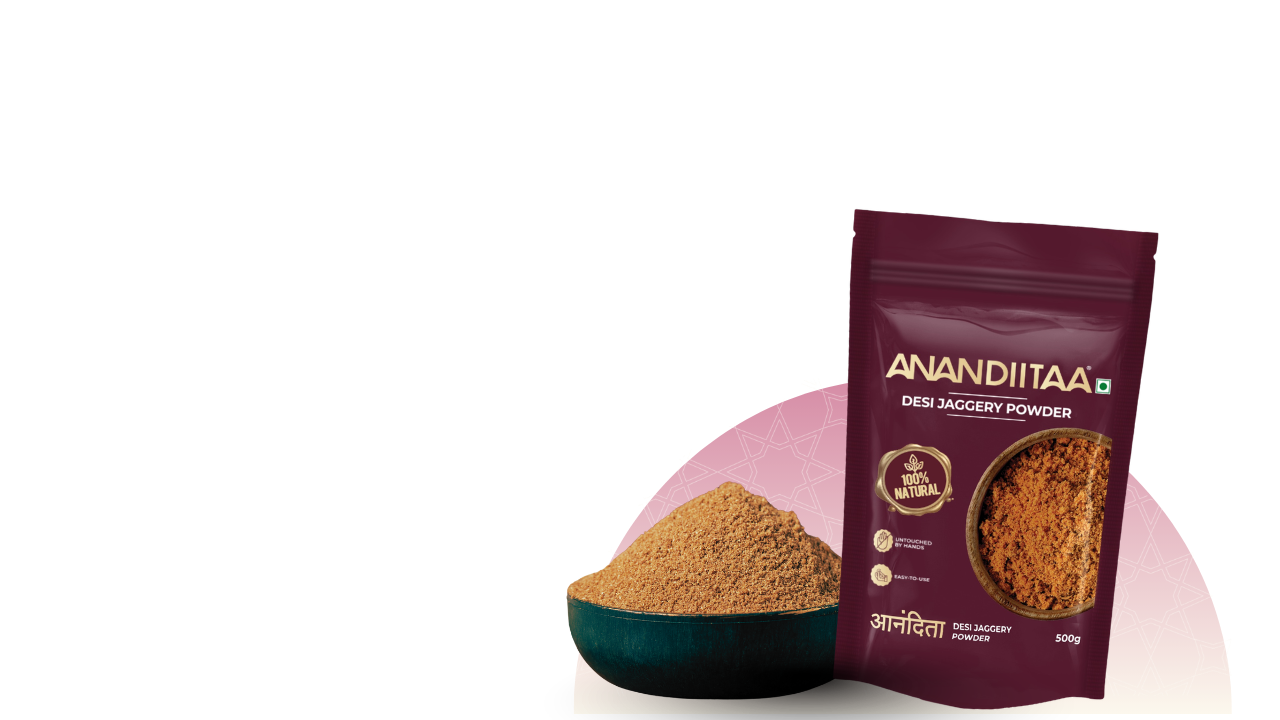
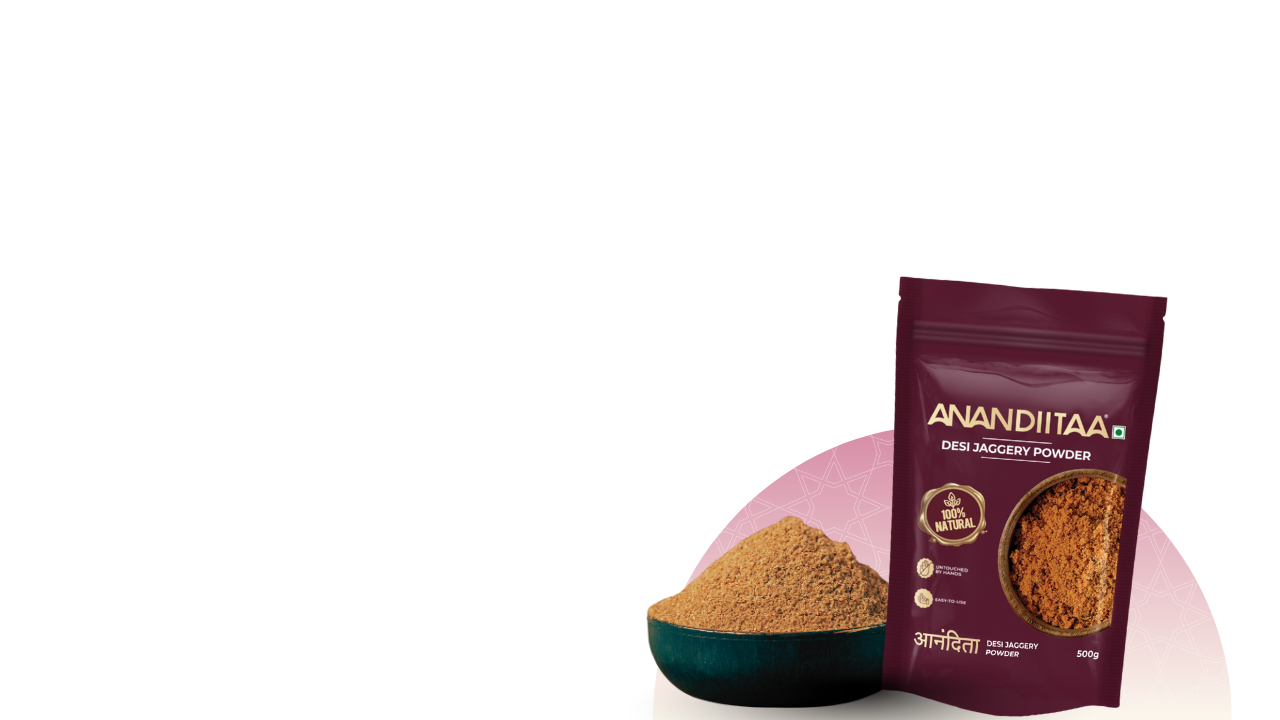
1280x720 carousel

Changed region(s): [[0.4375, 0.275, 0.9375, 1.0], [0.9375, 0.7944, 0.9688, 0.8556]]

diff --git a/my-custom-theme/style.css b/my-custom-theme/style.css
@@ -3485,25 +3485,9 @@ picture {
         margin-top: 4px;
     }
 
-    /* #3 Carousel hero — fit the full packet image WITHOUT stretch or packet-crop.
-       contain = no distortion + nothing important cut; scaling up ~20% from the
-       bottom grows the packets to fill the empty band (the image's top is
-       transparent, so the scale clips only empty space, never the packets).
-       Scoped to .hero-track so the standalone sections 6-11 keep cover. */
-    .hero-track .hero-slide__bg img {
-        object-fit: contain;
-        object-position: center bottom;
-        transform: scale(1.2);
-        transform-origin: center bottom;
-        /* Soft-fade the LEFT/RIGHT edges into the gradient so the contained image
-           has no hard side border. Single horizontal gradient (no mask-composite,
-           so it's reliable cross-browser) with a WIDE fade band → dissolves
-           smoothly, never a hard "blur line" as slides scroll. Top is transparent
-           (contain) and bottom is the packet base at the viewport floor, so only
-           the sides need fading. */
-        -webkit-mask-image: linear-gradient(90deg, transparent 0, #000 12%, #000 88%, transparent 100%);
-                mask-image: linear-gradient(90deg, transparent 0, #000 12%, #000 88%, transparent 100%);
-    }
+    /* SEAMLESS_BG_TEST: carousel image-fit hacks (contain + scale(1.2) + side mask)
+       removed — new properly-sized 1280×720 assets fill correctly, so the carousel
+       returns to the default `cover` + center-bottom behavior. */
 
     /* #2/#3 Slide 6 standards — clear the header; the smaller heading also keeps
        it off the sugarcane image. */

diff --git a/my-custom-theme/service-worker.js b/my-custom-theme/service-worker.js
@@ -25,7 +25,7 @@
  * delete any caches whose name doesn't match the current version.
  */
 
-const CACHE_VERSION = 'v21';
+const CACHE_VERSION = 'v22';
 const HTML_CACHE    = `anandiitaa-html-${CACHE_VERSION}`;
 const ASSET_CACHE   = `anandiitaa-assets-${CACHE_VERSION}`;
 

diff --git a/my-custom-theme/functions.php b/my-custom-theme/functions.php
@@ -5,7 +5,7 @@
  * BUMP this string whenever you want every client to refetch assets.
  * Keep it in step with CACHE_VERSION in service-worker.js for a full refresh.
  */
-define( 'ANANDIITAA_VER', '21' );
+define( 'ANANDIITAA_VER', '22' );
 
 function anandiitaa_enqueue_assets() {
     // Google Fonts: Montserrat (buttons + nav)
